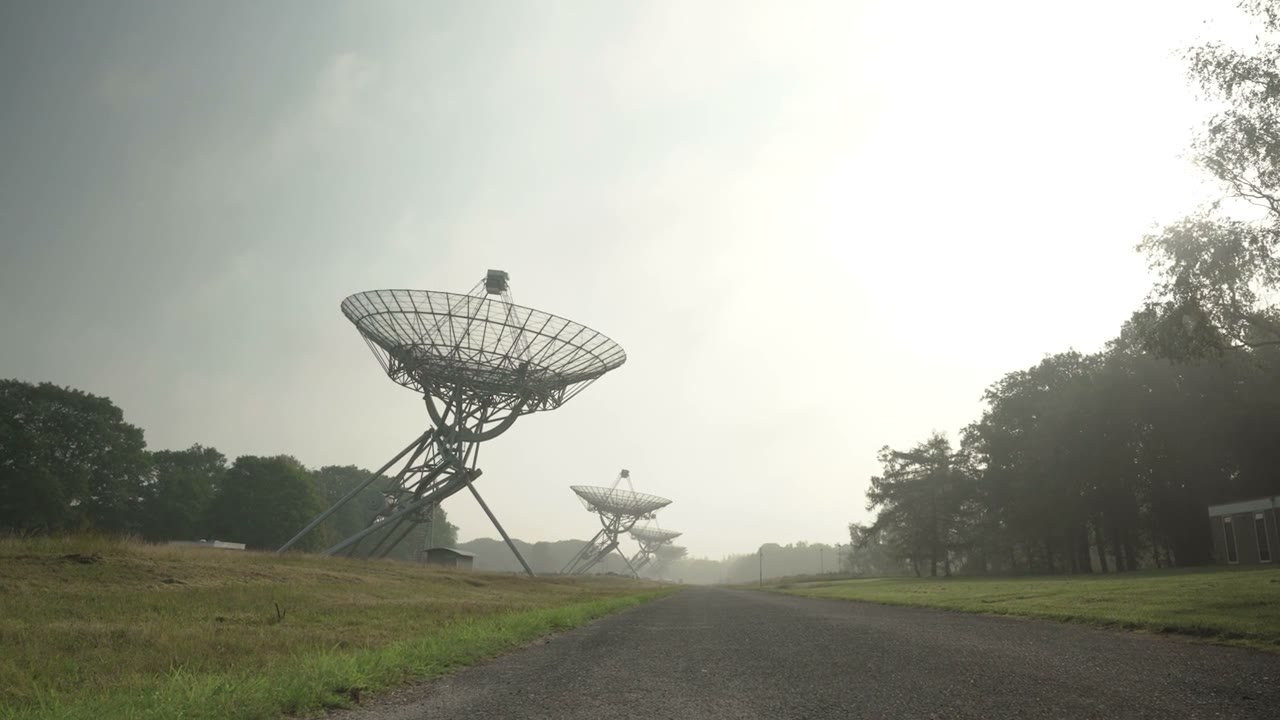
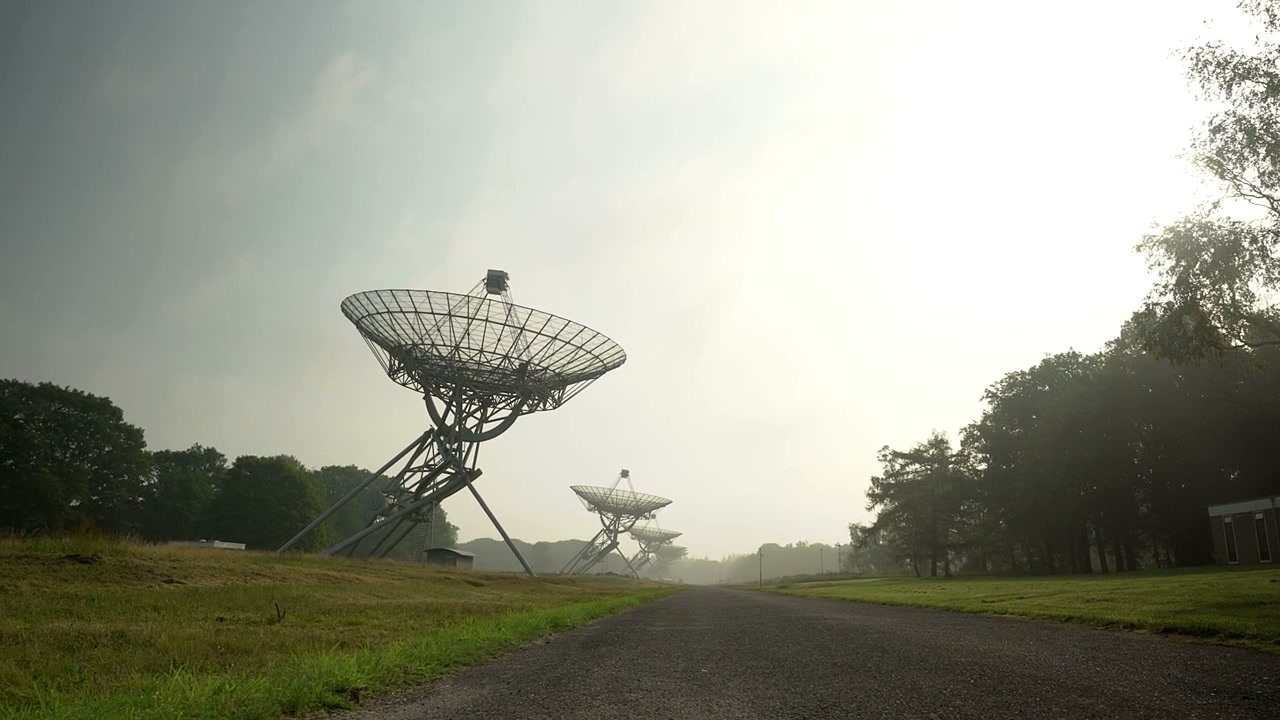
Site: the film in full colour and sharp, the step clips at their drawn size, the header readable over any shot
Measured against a reference hero (1080p at 3.7 Mbit/s, sharp footage, its text plain HTML over the video): our
headline was already HTML and as sharp; the film behind it was not. Every shot was desaturated and lightened, a
paper mist covered each from a third of the way down, and the encode was about 1 Mbit/s with a setting meant for
animation. The film is rendered again from the same footage (mostly 4K) close to the camera's own colour, the mist
only where the headline sits, at about 2.1 Mbit/s (23-24 MB, was 9-11); the phone cut is 1280x720 (9-11 MB, was 3).
Same eleven pairs and shot times; posters from the new picture.

With the mist gone the page carries its own ground: a soft veil of paper behind the headline only, and the header
bar on paper (it was a tenth-opaque grey and its mark vanished over dark footage).

The seven step clips are shown about 1350 px wide (2700 device pixels on a sharp screen) with their labels in the
picture: 1280x720 -> 2560x1440, the size they are drawn at (2.9 MB together, was 1.1); phone clips 960x540 ->
1280x720. MEDIA.sha256 re-pinned for the 18 files that changed.

site-check, claims-check and doctrine pass; browser checks 50/50.

Changed region(s): [[0.0, 0.0611, 1.0, 1.0], [0.9688, 0.0, 1.0, 0.0306]]

diff --git a/site/index.html b/site/index.html
@@ -157,9 +157,9 @@ setTimeout(function(){var h=document.documentElement;if(!h.dataset.rvReady)h.cla
 <main id="main">
 <header class="g-hero" id="hero">
   <div class="g-hero__film">
-    <video class="g-hero__v" muted playsinline loop preload="metadata" poster="media/ainra-film-hero-poster.jpg?v=12" data-poster-m="media/ainra-film-hero-m-poster.jpg?v=12" aria-describedby="g-film-shots" data-film data-stage-bottom="0.655" data-chapters="0,8.8,17.6,25.8,34.2,42.8,52,60.6,68.8,77,85.2">
-      <source data-src="media/ainra-film-hero.webm?v=11" data-src-m="media/ainra-film-hero-m.webm?v=11" type="video/webm">
-      <source data-src="media/ainra-film-hero.mp4?v=11" data-src-m="media/ainra-film-hero-m.mp4?v=11" type="video/mp4">
+    <video class="g-hero__v" muted playsinline loop preload="metadata" poster="media/ainra-film-hero-poster.jpg?v=13" data-poster-m="media/ainra-film-hero-m-poster.jpg?v=13" aria-describedby="g-film-shots" data-film data-stage-bottom="0.655" data-chapters="0,8.8,17.6,25.8,34.2,42.8,52,60.6,68.8,77,85.2">
+      <source data-src="media/ainra-film-hero.webm?v=12" data-src-m="media/ainra-film-hero-m.webm?v=12" type="video/webm">
+      <source data-src="media/ainra-film-hero.mp4?v=12" data-src-m="media/ainra-film-hero-m.mp4?v=12" type="video/mp4">
     </video>
     <p class="vh" id="g-film-shots">A silent film in eleven pairs: a shot of the real world, then the drawing that explains it — a dish array, then the root with three rings and nine keys; hands on a phone, then an agent handed a task shows its passport; a city crossing, then agents each checked as they pass; a <span class="nw">clean-room</span> machine, then a passport valid only once logged; capsules on a line, then running copies with <span class="nw">short-lived</span> keys; a motorway interchange, then requests checked at a verifier; a warehouse aisle, then one revoked bit refused by every verifier; a drone in the sky, then a check with no signal; wind turbines, then agents presenting to verifiers peer to peer; hands at a keyboard, then one line that installs the skills; a field, then the closing words: every check runs on your machine.</p>
   </div>
@@ -217,13 +217,13 @@ setTimeout(function(){var h=document.documentElement;if(!h.dataset.rvReady)h.cla
       </div>
       <div class="g-car" data-car aria-roledescription="carousel"><div class="g-car__track" data-car-track></div></div>
       <ol class="vh" data-tab-data>
-        <li data-k="Delegate" data-t="Your agent shows its passport before it pays" data-href="verify.html#try" data-src="media/g/delegate.mp4?v=7" data-src-m="media/g/delegate-m.mp4?v=1" data-poster="media/g/delegate-poster.jpg?v=1" data-poster-m="media/g/delegate-m-poster.jpg?v=1"></li>
-        <li data-k="Issue" data-t="A passport is valid only once it is logged" data-href="docs.html#verify" data-src="media/g/issue.mp4?v=7" data-src-m="media/g/issue-m.mp4?v=1" data-poster="media/g/issue-poster.jpg?v=1" data-poster-m="media/g/issue-m-poster.jpg?v=1"></li>
-        <li data-k="Verify" data-t="Every request checked on the verifier's own machine" data-href="verify.html#try" data-src="media/g/gate.mp4?v=8" data-src-m="media/g/gate-m.mp4?v=1" data-poster="media/g/gate-poster.jpg?v=2" data-poster-m="media/g/gate-m-poster.jpg?v=1"></li>
-        <li data-k="Revoke" data-t="One bit set, and every verifier that checks refuses" data-href="docs.html#verify" data-src="media/g/revoke.mp4?v=8" data-src-m="media/g/revoke-m.mp4?v=1" data-poster="media/g/revoke-poster.jpg?v=1" data-poster-m="media/g/revoke-m-poster.jpg?v=1"></li>
-        <li data-k="Running copies" data-t="Each copy carries its own short-lived key" data-href="docs.html#install" data-src="media/g/copies.mp4?v=7" data-src-m="media/g/copies-m.mp4?v=1" data-poster="media/g/copies-poster.jpg?v=1" data-poster-m="media/g/copies-m-poster.jpg?v=1"></li>
-        <li data-k="Offline" data-t="No signal, and the check still runs" data-href="https://github.com/JacobJandon/ainra/blob/main/docs/drills/REGISTRAR-DARK.md" data-src="media/g/offline.mp4?v=7" data-src-m="media/g/offline-m.mp4?v=1" data-poster="media/g/offline-poster.jpg?v=1" data-poster-m="media/g/offline-m-poster.jpg?v=1"></li>
-        <li data-k="Peer to peer" data-t="Agents present to verifiers; the root is not on the path" data-href="landscape.html" data-src="media/g/network.mp4?v=8" data-src-m="media/g/network-m.mp4?v=1" data-poster="media/g/network-poster.jpg?v=1" data-poster-m="media/g/network-m-poster.jpg?v=1"></li>
+        <li data-k="Delegate" data-t="Your agent shows its passport before it pays" data-href="verify.html#try" data-src="media/g/delegate.mp4?v=8" data-src-m="media/g/delegate-m.mp4?v=2" data-poster="media/g/delegate-poster.jpg?v=1" data-poster-m="media/g/delegate-m-poster.jpg?v=1"></li>
+        <li data-k="Issue" data-t="A passport is valid only once it is logged" data-href="docs.html#verify" data-src="media/g/issue.mp4?v=8" data-src-m="media/g/issue-m.mp4?v=2" data-poster="media/g/issue-poster.jpg?v=1" data-poster-m="media/g/issue-m-poster.jpg?v=1"></li>
+        <li data-k="Verify" data-t="Every request checked on the verifier's own machine" data-href="verify.html#try" data-src="media/g/gate.mp4?v=9" data-src-m="media/g/gate-m.mp4?v=2" data-poster="media/g/gate-poster.jpg?v=2" data-poster-m="media/g/gate-m-poster.jpg?v=1"></li>
+        <li data-k="Revoke" data-t="One bit set, and every verifier that checks refuses" data-href="docs.html#verify" data-src="media/g/revoke.mp4?v=9" data-src-m="media/g/revoke-m.mp4?v=2" data-poster="media/g/revoke-poster.jpg?v=1" data-poster-m="media/g/revoke-m-poster.jpg?v=1"></li>
+        <li data-k="Running copies" data-t="Each copy carries its own short-lived key" data-href="docs.html#install" data-src="media/g/copies.mp4?v=8" data-src-m="media/g/copies-m.mp4?v=2" data-poster="media/g/copies-poster.jpg?v=1" data-poster-m="media/g/copies-m-poster.jpg?v=1"></li>
+        <li data-k="Offline" data-t="No signal, and the check still runs" data-href="https://github.com/JacobJandon/ainra/blob/main/docs/drills/REGISTRAR-DARK.md" data-src="media/g/offline.mp4?v=8" data-src-m="media/g/offline-m.mp4?v=2" data-poster="media/g/offline-poster.jpg?v=1" data-poster-m="media/g/offline-m-poster.jpg?v=1"></li>
+        <li data-k="Peer to peer" data-t="Agents present to verifiers; the root is not on the path" data-href="landscape.html" data-src="media/g/network.mp4?v=9" data-src-m="media/g/network-m.mp4?v=2" data-poster="media/g/network-poster.jpg?v=1" data-poster-m="media/g/network-m-poster.jpg?v=1"></li>
       </ol>
     </div>
   </div>

diff --git a/site/css/g.css b/site/css/g.css
@@ -509,7 +509,7 @@ html[data-motion="off"] .g-side,html[data-motion="off"] .g-side li,html[data-mot
    scrolls), 70 px tall, 10 px corners, a faint grey glass (rgba 171/.1, blur 10 px) and a soft shadow; no border.
    The mark and the name sit 20 px in from the bar's left edge. ── */
 nav:not([class]){top:16px;margin:16px 0 -86px;padding:0 10px}
-nav:not([class]) .nav-in,.nav-float nav:not([class]) .nav-in{height:70px;min-height:70px;padding:0 20px;border-radius:10px;border:0;background:rgba(171,171,171,.1);-webkit-backdrop-filter:blur(10px);backdrop-filter:blur(10px);box-shadow:0 2px 10px rgba(0,0,0,.1)}
+nav:not([class]) .nav-in,.nav-float nav:not([class]) .nav-in{height:70px;min-height:70px;padding:0 20px;border-radius:10px;border:0;background:rgba(245,246,243,.88);-webkit-backdrop-filter:blur(10px);backdrop-filter:blur(10px);box-shadow:0 2px 10px rgba(0,0,0,.1)}
 nav:not([class]) .brand{gap:10px}
 nav:not([class]) .brand .wm{font-size:20px;letter-spacing:-.01em}
 .g-menu__about{font-size:15px;color:var(--ink-soft);margin:0 0 28px;max-width:60ch}
@@ -719,7 +719,9 @@ nav:not([class]) .nav-r .g-menubtn,nav:not([class]) .nav-r .g-sq{min-width:40px;
 .rv .g-hero.is-in .g-hero__plate.is-reset h1.display .gw > span{transform:translate3d(0,115%,0) rotate(6deg);opacity:0;transition:none}
 .rv .g-hero.is-in .g-hero__plate.is-reset::before{transform:scaleX(0);transition:none}
 /* the hero's last sliver is paper, so it meets the page below without an edge */
-.g-hero__scrim{display:block;position:absolute;inset:0;pointer-events:none;background:linear-gradient(180deg,rgba(245,246,243,0) 86%,var(--paper) 100%)}
+/* and a soft veil of paper only behind the headline (lower left): the film is no longer fogged across its width
+   (2026-11-12), so the words get their own ground and the rest of the picture stays clear */
+.g-hero__scrim{display:block;position:absolute;inset:0;pointer-events:none;background:radial-gradient(ellipse 62% 50% at 10% 94%,rgba(245,246,243,.94) 0,rgba(245,246,243,.82) 36%,rgba(245,246,243,0) 100%),linear-gradient(180deg,rgba(245,246,243,0) 86%,var(--paper) 100%)}
 /* the Details panel, a little tighter beside this hero, so on a full-size window it ends below the film's stage; where
    it still would not (a short window), g.mjs starts it closed and the edge tab offers it */
 .g-hero + .g-side{padding:14px 16px 12px}

diff --git a/site/css/g-shell.css b/site/css/g-shell.css
@@ -117,7 +117,7 @@ html[data-motion="off"] .g-side,html[data-motion="off"] .g-side li,html[data-mot
 .rv .gi-hero.is-in .gi-title span{color:var(--ink);transform:none}
 @media (max-width:700px){.gi-hero{padding-top:24px}.gi-sub{overflow-x:auto;flex-wrap:nowrap;white-space:nowrap}}
 nav:not([class]){top:16px;margin:16px 0 -86px;padding:0 10px}
-nav:not([class]) .nav-in,.nav-float nav:not([class]) .nav-in{height:70px;min-height:70px;padding:0 20px;border-radius:10px;border:0;background:rgba(171,171,171,.1);-webkit-backdrop-filter:blur(10px);backdrop-filter:blur(10px);box-shadow:0 2px 10px rgba(0,0,0,.1)}
+nav:not([class]) .nav-in,.nav-float nav:not([class]) .nav-in{height:70px;min-height:70px;padding:0 20px;border-radius:10px;border:0;background:rgba(245,246,243,.88);-webkit-backdrop-filter:blur(10px);backdrop-filter:blur(10px);box-shadow:0 2px 10px rgba(0,0,0,.1)}
 nav:not([class]) .brand{gap:10px}
 nav:not([class]) .brand .wm{font-size:20px;letter-spacing:-.01em}
 .g-menu__about{font-size:15px;color:var(--ink-soft);margin:0 0 28px;max-width:60ch}
